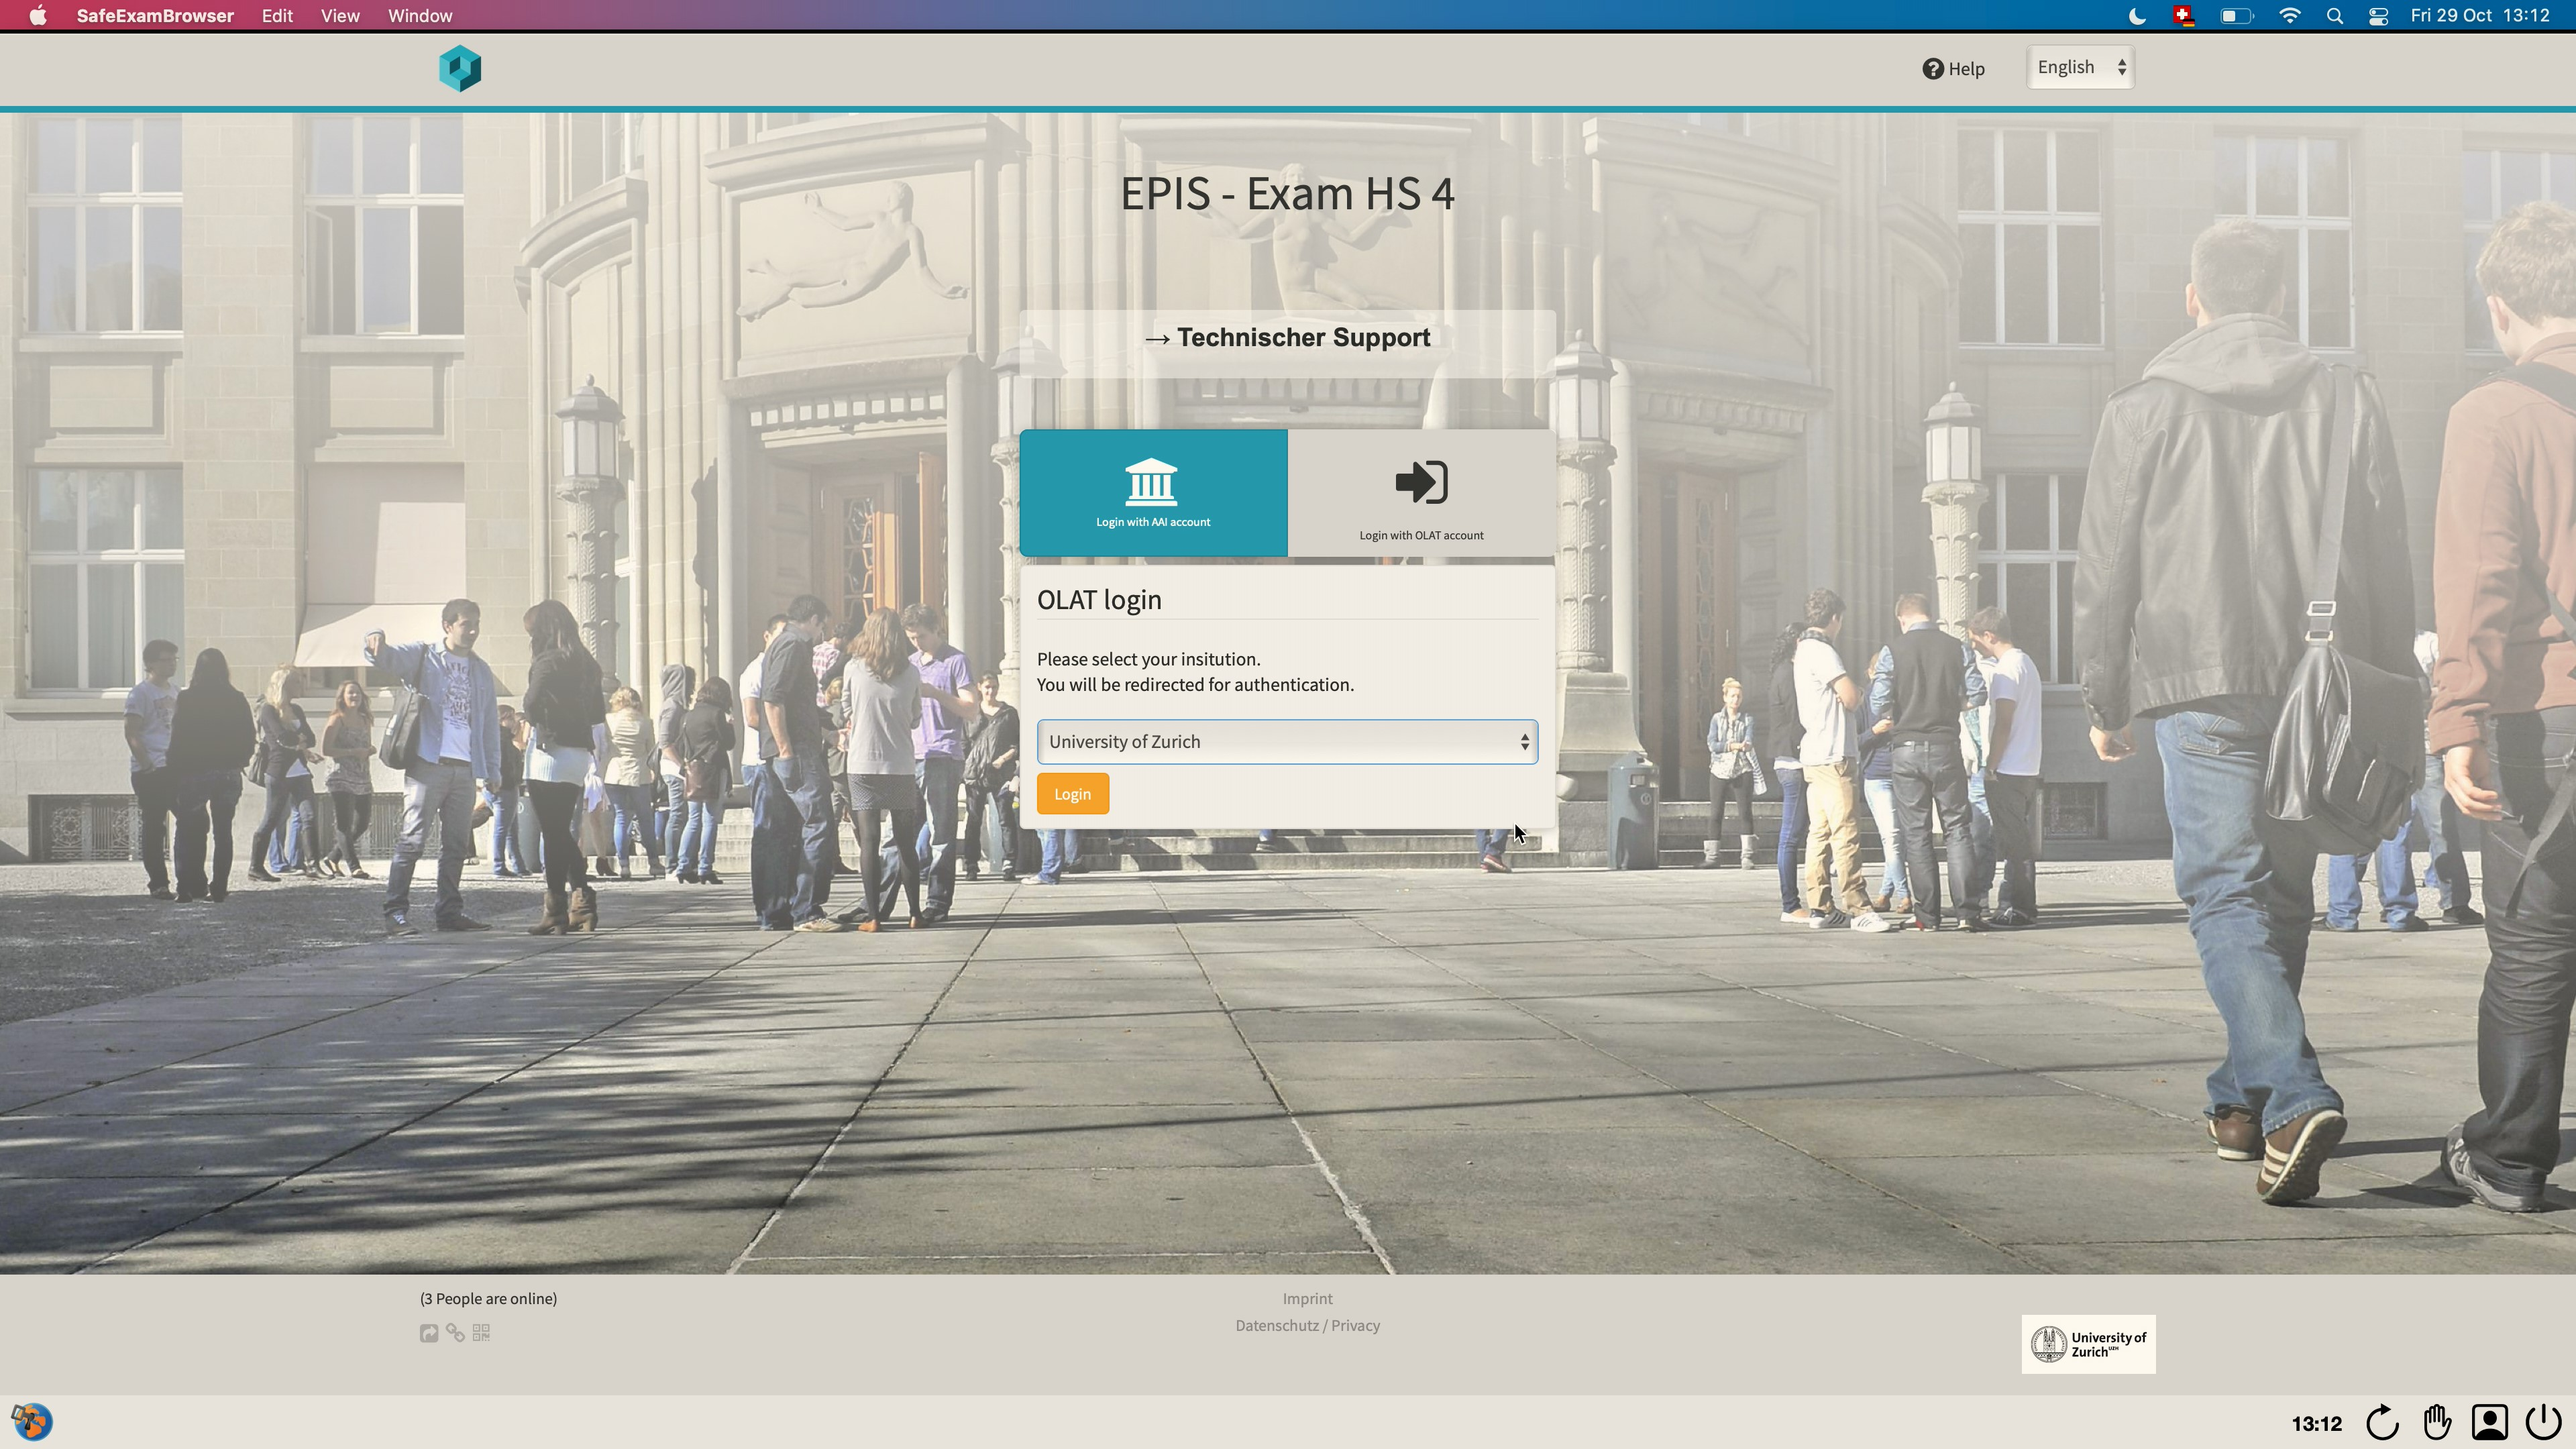
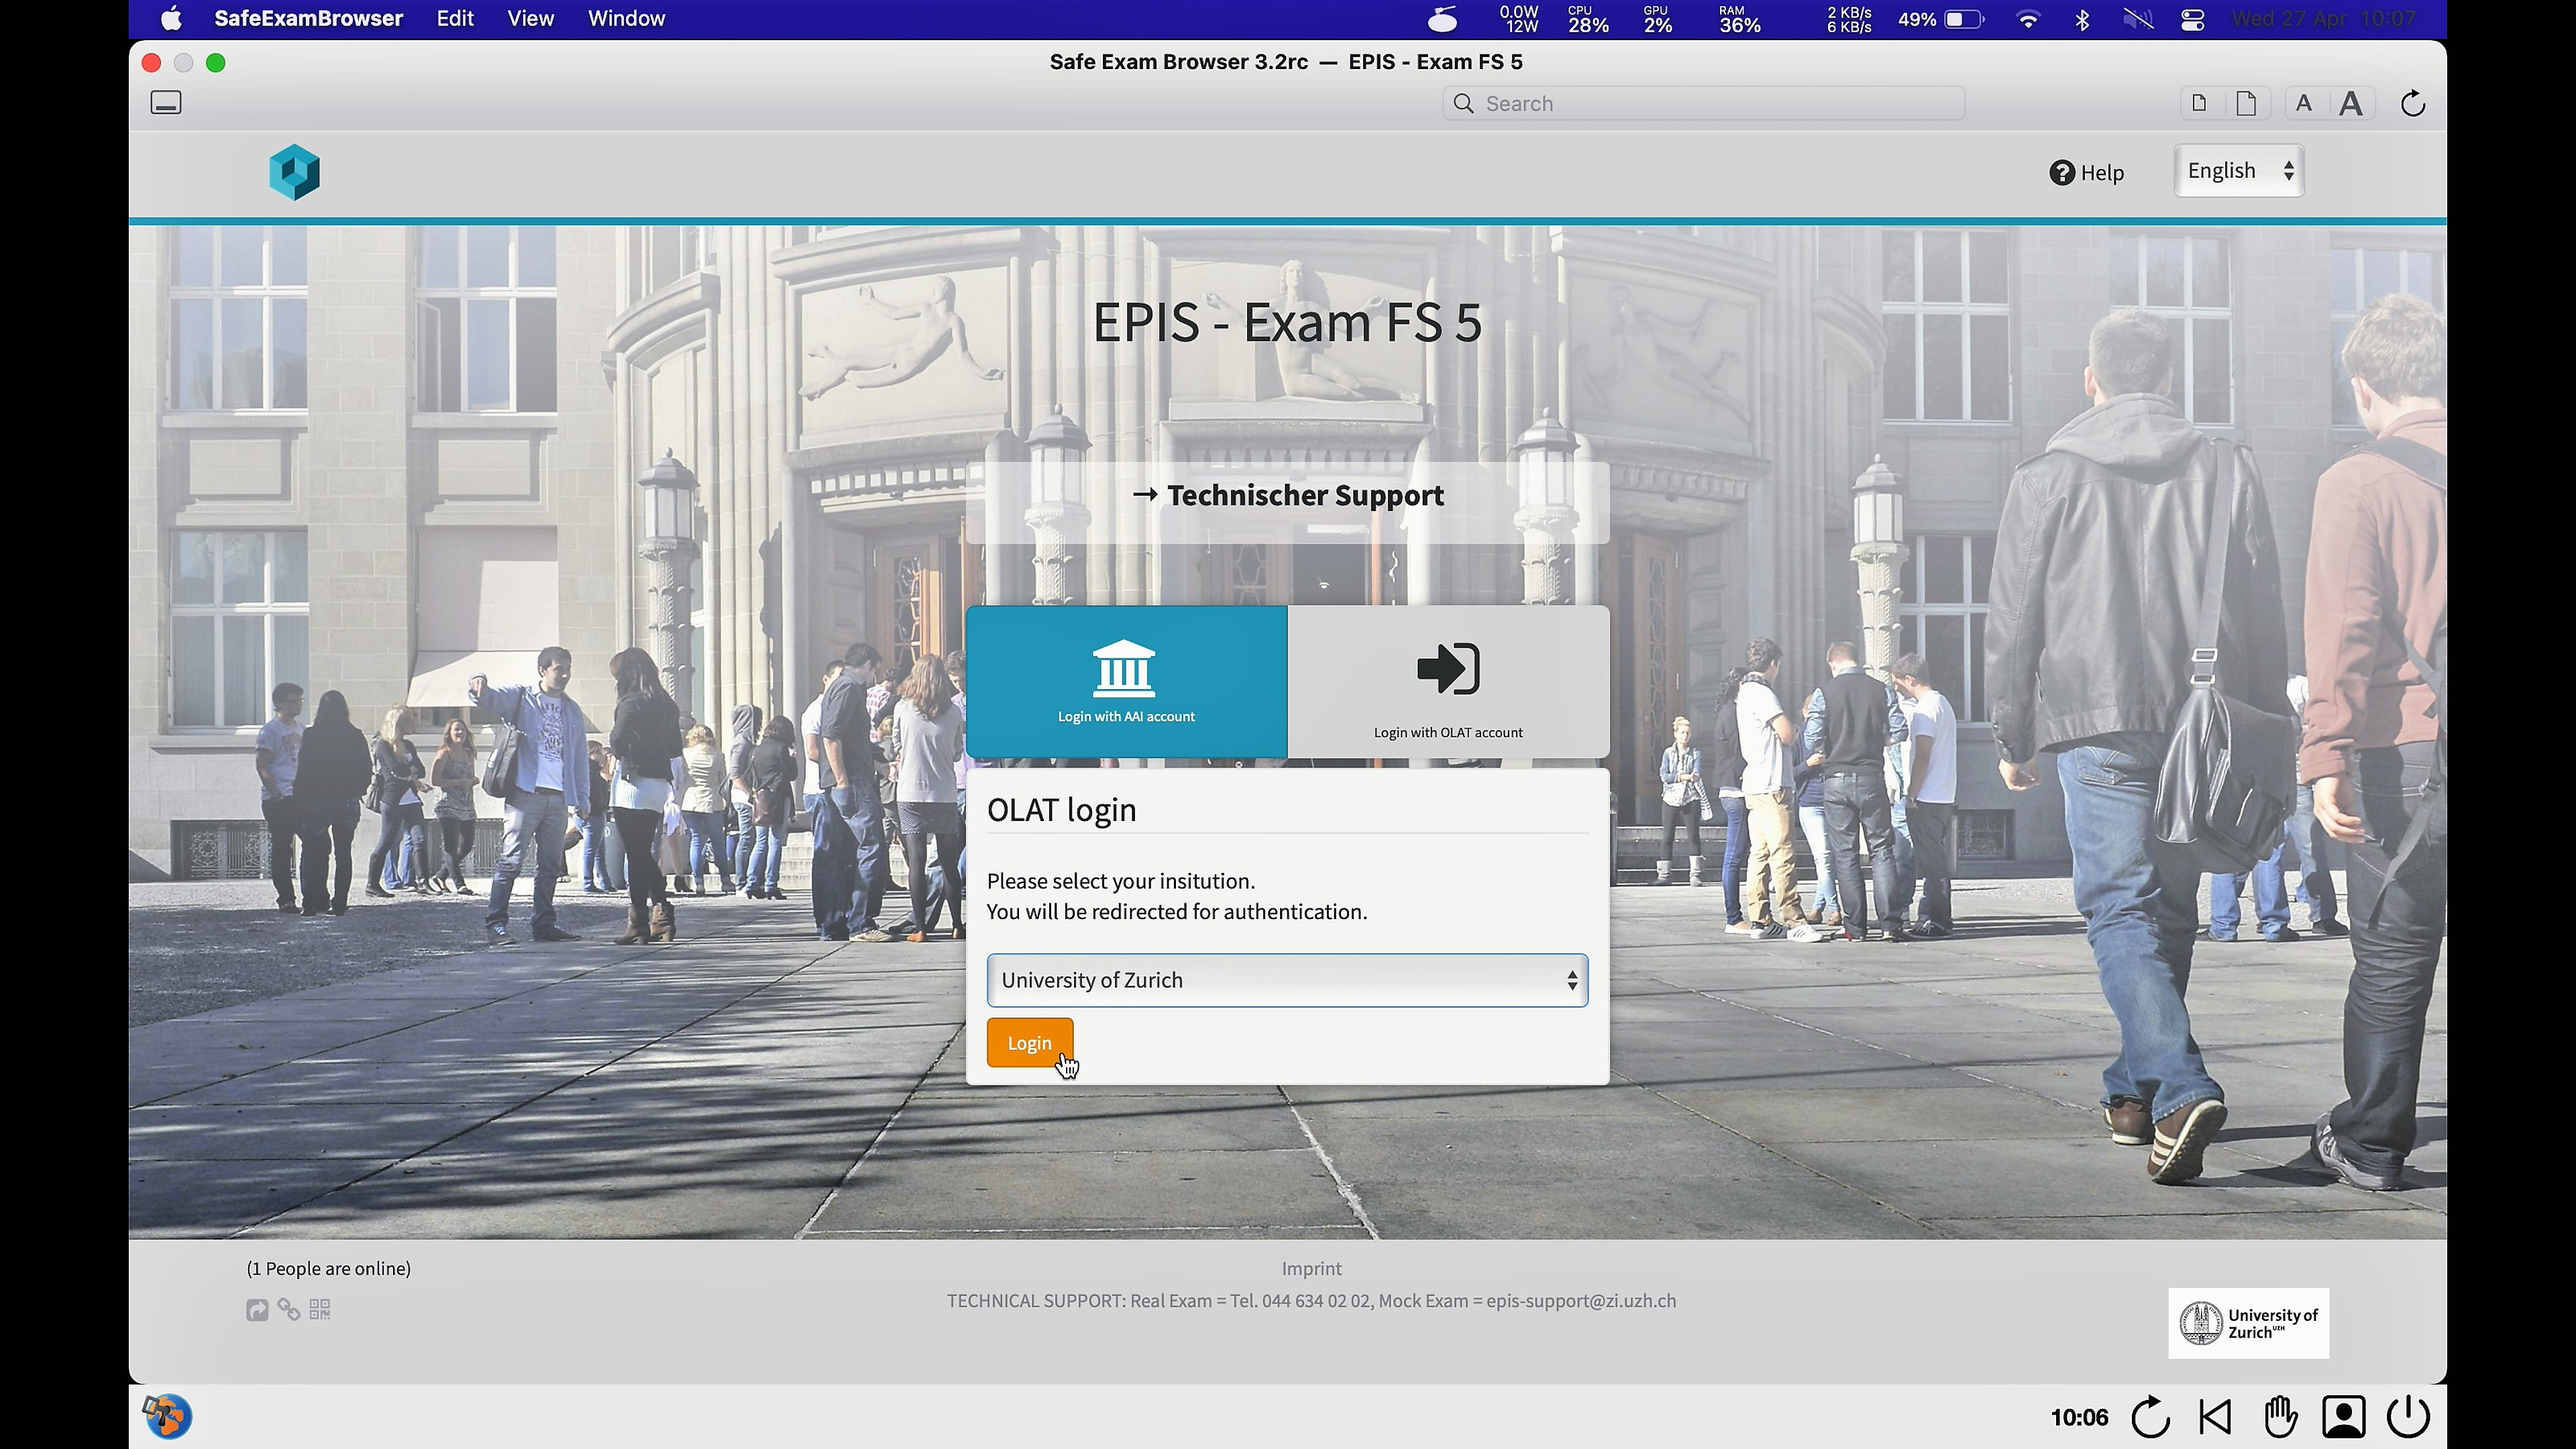
updated screenshots

diff --git a/exam_seb_ans_mac_de.md b/exam_seb_ans_mac_de.md
@@ -25,7 +25,7 @@ Bitte beachten Sie die Checkliste unter [Allgemeine Informationen](https://uzh-o
 1. Während der SEB startet, zeigt sich ein Pop-Up, welches darauf hinweist, dass ein Videoüberwachung stattfindet. Drücken Sie **OK**       
 [![SEB-Ans-start-Mac](assets/SEB_Ans_remoteproctoring_mac.png)](assets/SEB_Ans_remoteproctoring_mac.png)
 
-1. Als Nächstes lädt der SEB die Ans Plattform. Wählen Sie die Login-Option "Login with school account" und geben Sie **Zurich** oder **UZH** ein und wählen **University of Zurich (UZH)** aus
+1. Als nächstes lädt der SEB die Ans Plattform. Wählen Sie die Login-Option "Login with school account" und geben Sie **Zurich** oder **UZH** ein und wählen **University of Zurich (UZH)** aus
 [![SEB-Ans-login-Mac](assets/SEB_Ans_login_mac.png)](assets/SEB_Ans_login_mac.png)
 
 1. Bitte loggen Sie sich mit dem SWITCHaai Login ein
@@ -37,7 +37,7 @@ Bitte beachten Sie die Checkliste unter [Allgemeine Informationen](https://uzh-o
 * Hat die Prüfung bereits gestartet, finden Sie die Prüfung unter **Live assignments**
 Alle weiteren Informationen zu Ans finden Sie [hier](https://uzh-oec.github.io/ans/exam-navigation-de.html){:target="_blank"}
 
-1. Unten rechts im SEB ist nun auch das **Videoprocotring** unter dem Profil-Symbol aktiv. Bitte machen Sie folgende Anpassungen falls nötig:
+1. Unten rechts im SEB ist nun auch das **Videoproctoring** unter dem Profil-Symbol aktiv. Bitte machen Sie folgende Anpassungen falls nötig:
 * Das Mikrofon ist eingeschaltet (obligatorisch)
 * Den Ton des Gerätes ist ausgeschaltet
 
@@ -54,9 +54,6 @@ Alle weiteren Informationen zu Ans finden Sie [hier](https://uzh-oec.github.io/a
  
 Sie dürfen den Safe Exam Browser **nicht** vor Prüfungsende beenden. Ein vorzeitiger Ausstieg aus dem Safe Exam Browser gilt als Prüfungsbetrug. Klicken Sie **NICHT** auf den Button «Safe Exam Browser schliessen» bevor die Prüfungszeit abgelaufen ist.
 [![SEB-Ans-QuitBrowser](assets/SEB_Ans_donotquit.png)](assets/SEB_Ans_donotquit.png)
-
-**Hinweis**: Wenn Sie die Prüfung beenden, kommt eine Fehlermeldung, dass der Safe Exam Browser unerwartet beendet wurde. Klicken Sie hier bitte **OK**
-[![SEB-Ans-Error-Mac](assets/SEB_Ans_postquit_mac.png)](assets/SEB_Ans_postquit_mac.png)
 
 
 ### Während der Prüfung

diff --git a/exam_seb_epis_win_de.md b/exam_seb_epis_win_de.md
@@ -16,7 +16,7 @@ nav_order: 4
 ### Start der Prüfung
 Bitte beachten Sie die Checkliste unter [Allgemeine Informationen](https://uzh-oec.github.io/seb/exam_general_de.html){:target="_blank"}
 
-1. Loggen Sie sich im Firefox Browser auf OLAT-EPIS mit dem aaiSWITCH Login ein: [hs4.epis.uzh.ch](hs4.epis.uzh.ch){:target="_blank"}
+1. Loggen Sie sich im Firefox Browser auf OLAT-EPIS mit dem aaiSWITCH Login ein: [fs5.epis.uzh.ch](fs5.epis.uzh.ch){:target="_blank"}
 [![SEB-OLAT-Login](assets/SEB_Olat_Login.png)](assets/SEB_Olat_Login.png)
 
 1. Es erscheint ein Pop-Up, welches die Aktuelle Prüfung anzeigt. Darin wird erläutert, dass die Prüfung nur mit dem Safe Exam Browser bearbeitet werden kann. Klicken Sie auf die **Safe Exam Browser Starten** Schaltfläche

diff --git a/exam_seb_epis_mac_de.md b/exam_seb_epis_mac_de.md
@@ -17,7 +17,7 @@ nav_order: 5
 
 Bitte beachten Sie die Checkliste unter [Allgemeine Informationen](https://uzh-oec.github.io/seb/exam_general_de.html){:target="_blank"}
 
-1. Loggen Sie sich im Firefox Browser auf OLAT-EPIS mit dem aaiSWITCH Login ein: [hs4.epis.uzh.ch](hs4.epis.uzh.ch){:target="_blank"}
+1. Loggen Sie sich im Firefox Browser auf OLAT-EPIS mit dem aaiSWITCH Login ein: [fs5.epis.uzh.ch](fs5.epis.uzh.ch){:target="_blank"}
 [![SEB-OLAT-Login](assets/SEB_Olat_Login.png)](assets/SEB_Olat_Login.png)
 
 1. Es erscheint ein Pop-Up, welches die Aktuelle Prüfung anzeigt. Darin wird erläutert, dass die Prüfung nur mit dem Safe Exam Browser bearbeitet werden kann. Klicken Sie auf die **Safe Exam Browser Starten** Schaltfläche
